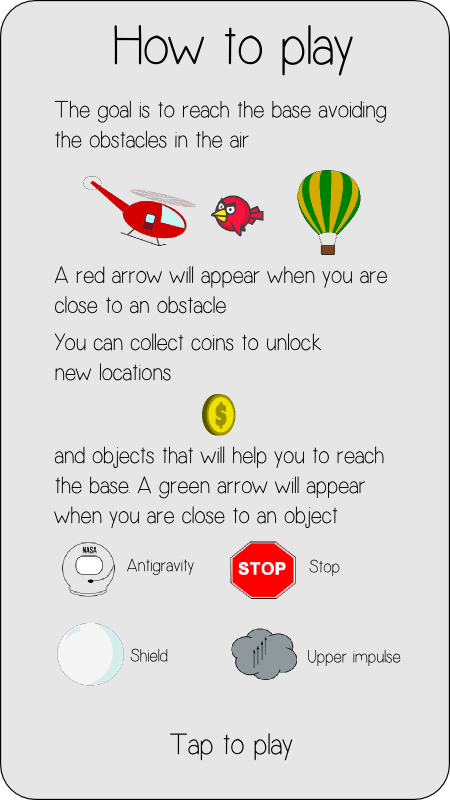
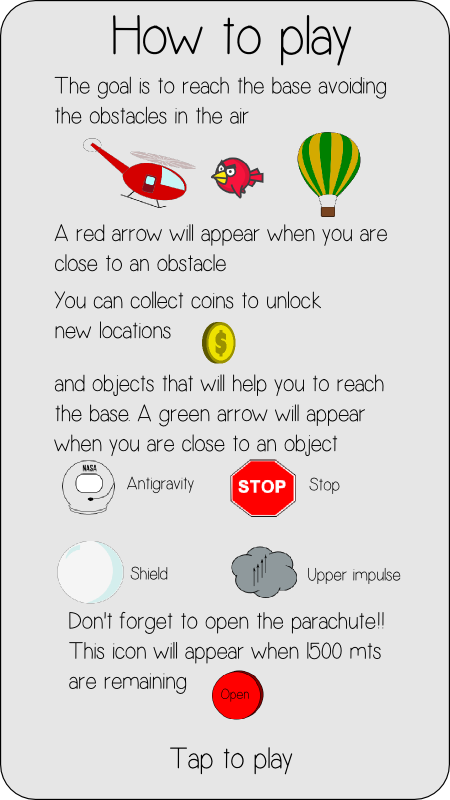
Rate us implementado completo, help window modificada

Changed region(s): [[0.1244, 0.0312, 0.9022, 0.9688], [0.3733, 0.9062, 0.4667, 0.9688], [0.8089, 0.3438, 0.8711, 0.375]]

diff --git a/ParachuteAction/src/com/lucianosimo/parachuteaction/scene/MainMenuScene.java b/ParachuteAction/src/com/lucianosimo/parachuteaction/scene/MainMenuScene.java
@@ -12,6 +12,14 @@ import org.andengine.entity.scene.menu.item.SpriteMenuItem;
 import org.andengine.entity.scene.menu.item.decorator.ScaleMenuItemDecorator;
 import org.andengine.entity.sprite.Sprite;
 
+import android.app.AlertDialog;
+import android.content.DialogInterface;
+import android.content.Intent;
+import android.content.SharedPreferences;
+import android.content.SharedPreferences.Editor;
+import android.net.Uri;
+import android.preference.PreferenceManager;
+
 import com.lucianosimo.parachuteaction.base.BaseScene;
 import com.lucianosimo.parachuteaction.manager.SceneManager;
 import com.lucianosimo.parachuteaction.manager.SceneManager.SceneType;
@@ -22,6 +30,7 @@ public class MainMenuScene extends BaseScene implements IOnMenuItemClickListener
 	private final int MENU_PLAY = 0;
 	private final int MENU_STATISTICS = 1;
 	private final int MENU_SHOP = 2;
+	private final int MENU_RATE_US = 3;
 	
 	private static final int LEFT_MARGIN = -240;
 	private static final int RIGHT_MARGIN = 240;
@@ -30,6 +39,15 @@ public class MainMenuScene extends BaseScene implements IOnMenuItemClickListener
 
 	@Override
 	public void createScene() {
+		SharedPreferences sharedPreferences = PreferenceManager.getDefaultSharedPreferences(activity);
+		int played = sharedPreferences.getInt("played", 0);
+		//Rated: 0 = no, 1 = yes
+		int rated = sharedPreferences.getInt("rated", 0);		
+		if (rated == 0) {
+			if (played == 2 || played == 5) {
+				displayRateUsWindow();
+			}
+		}
 		createBackground();
 		createMenuChildScene();
 	}
@@ -94,6 +112,7 @@ public class MainMenuScene extends BaseScene implements IOnMenuItemClickListener
 		final IMenuItem playMenuItem = new ScaleMenuItemDecorator(new SpriteMenuItem(MENU_PLAY, resourcesManager.play_region, vbom), 1.2f, 1);
 		final IMenuItem statisticsMenuItem = new ScaleMenuItemDecorator(new SpriteMenuItem(MENU_STATISTICS, resourcesManager.statistics_region, vbom), 1.2f, 1);
 		final IMenuItem shopMenuItem = new ScaleMenuItemDecorator(new SpriteMenuItem(MENU_SHOP, resourcesManager.shop_region, vbom), 1.2f, 1);
+		final IMenuItem rateUsItem = new ScaleMenuItemDecorator(new SpriteMenuItem(MENU_RATE_US, resourcesManager.rate_us_region, vbom), 1.2f, 1);
 
 		menuChildScene.attachChild(farCloud);
 		menuChildScene.attachChild(cloud);		
@@ -103,6 +122,7 @@ public class MainMenuScene extends BaseScene implements IOnMenuItemClickListener
 		menuChildScene.addMenuItem(playMenuItem);
 		menuChildScene.addMenuItem(statisticsMenuItem);
 		menuChildScene.addMenuItem(shopMenuItem);
+		menuChildScene.addMenuItem(rateUsItem);
 
 		menuChildScene.buildAnimations();
 		menuChildScene.setBackgroundEnabled(false);
@@ -110,6 +130,7 @@ public class MainMenuScene extends BaseScene implements IOnMenuItemClickListener
 		playMenuItem.setPosition(0, 25);
 		statisticsMenuItem.setPosition(-120, -200);
 		shopMenuItem.setPosition(120, -200);
+		rateUsItem.setPosition(0, -325);
 		
 		cloud.setPosition(100, 150);
 		farCloud.setPosition(-100, -150);
@@ -117,6 +138,48 @@ public class MainMenuScene extends BaseScene implements IOnMenuItemClickListener
 		
 		menuChildScene.setOnMenuItemClickListener(this);
 		setChildScene(menuChildScene);
+	}
+	
+	private void displayRateUsWindow() {
+		MainMenuScene.this.activity.runOnUiThread(new Runnable() {
+			
+			@Override
+			public void run() {
+				new AlertDialog.Builder(MainMenuScene.this.activity)
+				.setMessage("Do you want to rate us")
+				.setPositiveButton("Yes", new DialogInterface.OnClickListener() {
+
+				    public void onClick(DialogInterface dialog, int whichButton) {
+				    	activity.startActivity(new Intent(Intent.ACTION_VIEW, Uri.parse("market://details?id=" + "com.lucianosimo.parachuteaction")));
+				    	SharedPreferences sharedPreferences = PreferenceManager.getDefaultSharedPreferences(activity);
+						int rated = sharedPreferences.getInt("rated", 0);
+						Editor editor = sharedPreferences.edit();
+						rated = 1;
+						editor.putInt("rated", rated);
+						editor.commit();
+				    }})
+				.setNegativeButton("Never", new DialogInterface.OnClickListener() {
+					
+					@Override
+					public void onClick(DialogInterface dialog, int which) {
+						SharedPreferences sharedPreferences = PreferenceManager.getDefaultSharedPreferences(activity);
+						int rated = sharedPreferences.getInt("rated", 0);
+						Editor editor = sharedPreferences.edit();
+						rated = 1;
+						editor.putInt("rated", rated);
+						editor.commit();						
+					}
+				})
+				.setNeutralButton("Maybe later", new DialogInterface.OnClickListener() {
+					
+					@Override
+					public void onClick(DialogInterface dialog, int which) {
+						
+					}
+				})
+				.show();
+			}
+		});
 	}
 	
 
@@ -131,6 +194,9 @@ public class MainMenuScene extends BaseScene implements IOnMenuItemClickListener
 				return true;
 			case MENU_SHOP:
 				SceneManager.getInstance().loadShopScene(engine, this);
+				return true;
+			case MENU_RATE_US:
+				activity.startActivity(new Intent(Intent.ACTION_VIEW, Uri.parse("market://details?id=" + "com.lucianosimo.parachuteaction")));
 				return true;
 			default:
 				return false;

diff --git a/ParachuteAction/src/com/lucianosimo/parachuteaction/manager/ResourcesManager.java b/ParachuteAction/src/com/lucianosimo/parachuteaction/manager/ResourcesManager.java
@@ -44,6 +44,7 @@ public class ResourcesManager {
 	public ITextureRegion menu_cloud_region;
 	public ITextureRegion menu_far_cloud_region;
 	public ITextureRegion menu_title_region;
+	public ITextureRegion rate_us_region;
 	
 	private BuildableBitmapTextureAtlas menuTextureAtlas;
 	private BuildableBitmapTextureAtlas backgroundMenuTextureAtlas;
@@ -256,6 +257,7 @@ public class ResourcesManager {
 		menu_cloud_region = BitmapTextureAtlasTextureRegionFactory.createFromAsset(menuTextureAtlas, activity, "cloud.png");
 		menu_far_cloud_region = BitmapTextureAtlasTextureRegionFactory.createFromAsset(menuTextureAtlas, activity, "farCloud.png");
 		menu_title_region = BitmapTextureAtlasTextureRegionFactory.createFromAsset(menuTextureAtlas, activity, "title.png");
+		rate_us_region = BitmapTextureAtlasTextureRegionFactory.createFromAsset(menuTextureAtlas, activity, "rateus.png");
 		
 		try {
 			this.menuTextureAtlas.build(new BlackPawnTextureAtlasBuilder<IBitmapTextureAtlasSource, BitmapTextureAtlas>(0, 1, 0));

diff --git a/ParachuteAction/src/com/lucianosimo/parachuteaction/scene/SplashScene.java b/ParachuteAction/src/com/lucianosimo/parachuteaction/scene/SplashScene.java
@@ -9,6 +9,10 @@ import org.andengine.entity.sprite.Sprite;
 import org.andengine.opengl.util.GLState;
 import org.andengine.util.adt.color.Color;
 
+import android.content.SharedPreferences;
+import android.content.SharedPreferences.Editor;
+import android.preference.PreferenceManager;
+
 import com.lucianosimo.parachuteaction.base.BaseScene;
 import com.lucianosimo.parachuteaction.manager.SceneManager.SceneType;
 
@@ -18,6 +22,13 @@ public class SplashScene extends BaseScene{
 	
 	@Override
 	public void createScene() {
+		SharedPreferences sharedPreferences = PreferenceManager.getDefaultSharedPreferences(activity);
+		int played = sharedPreferences.getInt("played", 0);
+		Editor editor = sharedPreferences.edit();
+		played++;
+		editor.putInt("played", played);
+		editor.commit();		
+		
 		setBackground(new Background(Color.WHITE));
 		splash = new Sprite(0, 0, resourcesManager.splash_region, vbom) {
 			@Override

diff --git a/ParachuteAction/src/com/lucianosimo/parachuteaction/scene/GameScene.java b/ParachuteAction/src/com/lucianosimo/parachuteaction/scene/GameScene.java
@@ -200,11 +200,11 @@ public class GameScene extends BaseScene{
 		createPhysics();
 		loadLevel(level);
 		SharedPreferences sharedPreferences = PreferenceManager.getDefaultSharedPreferences(activity);
-		int games = sharedPreferences.getInt("games", 0);
-		if (games == 0) {
+		int firstGame = sharedPreferences.getInt("firstGame", 0);
+		if (firstGame == 0) {
 			Editor editor = sharedPreferences.edit();
-			games++;
-			editor.putInt("games", games);
+			firstGame++;
+			editor.putInt("firstGame", firstGame);
 			editor.commit();
 			displayHelpWindow();			
 		}		
